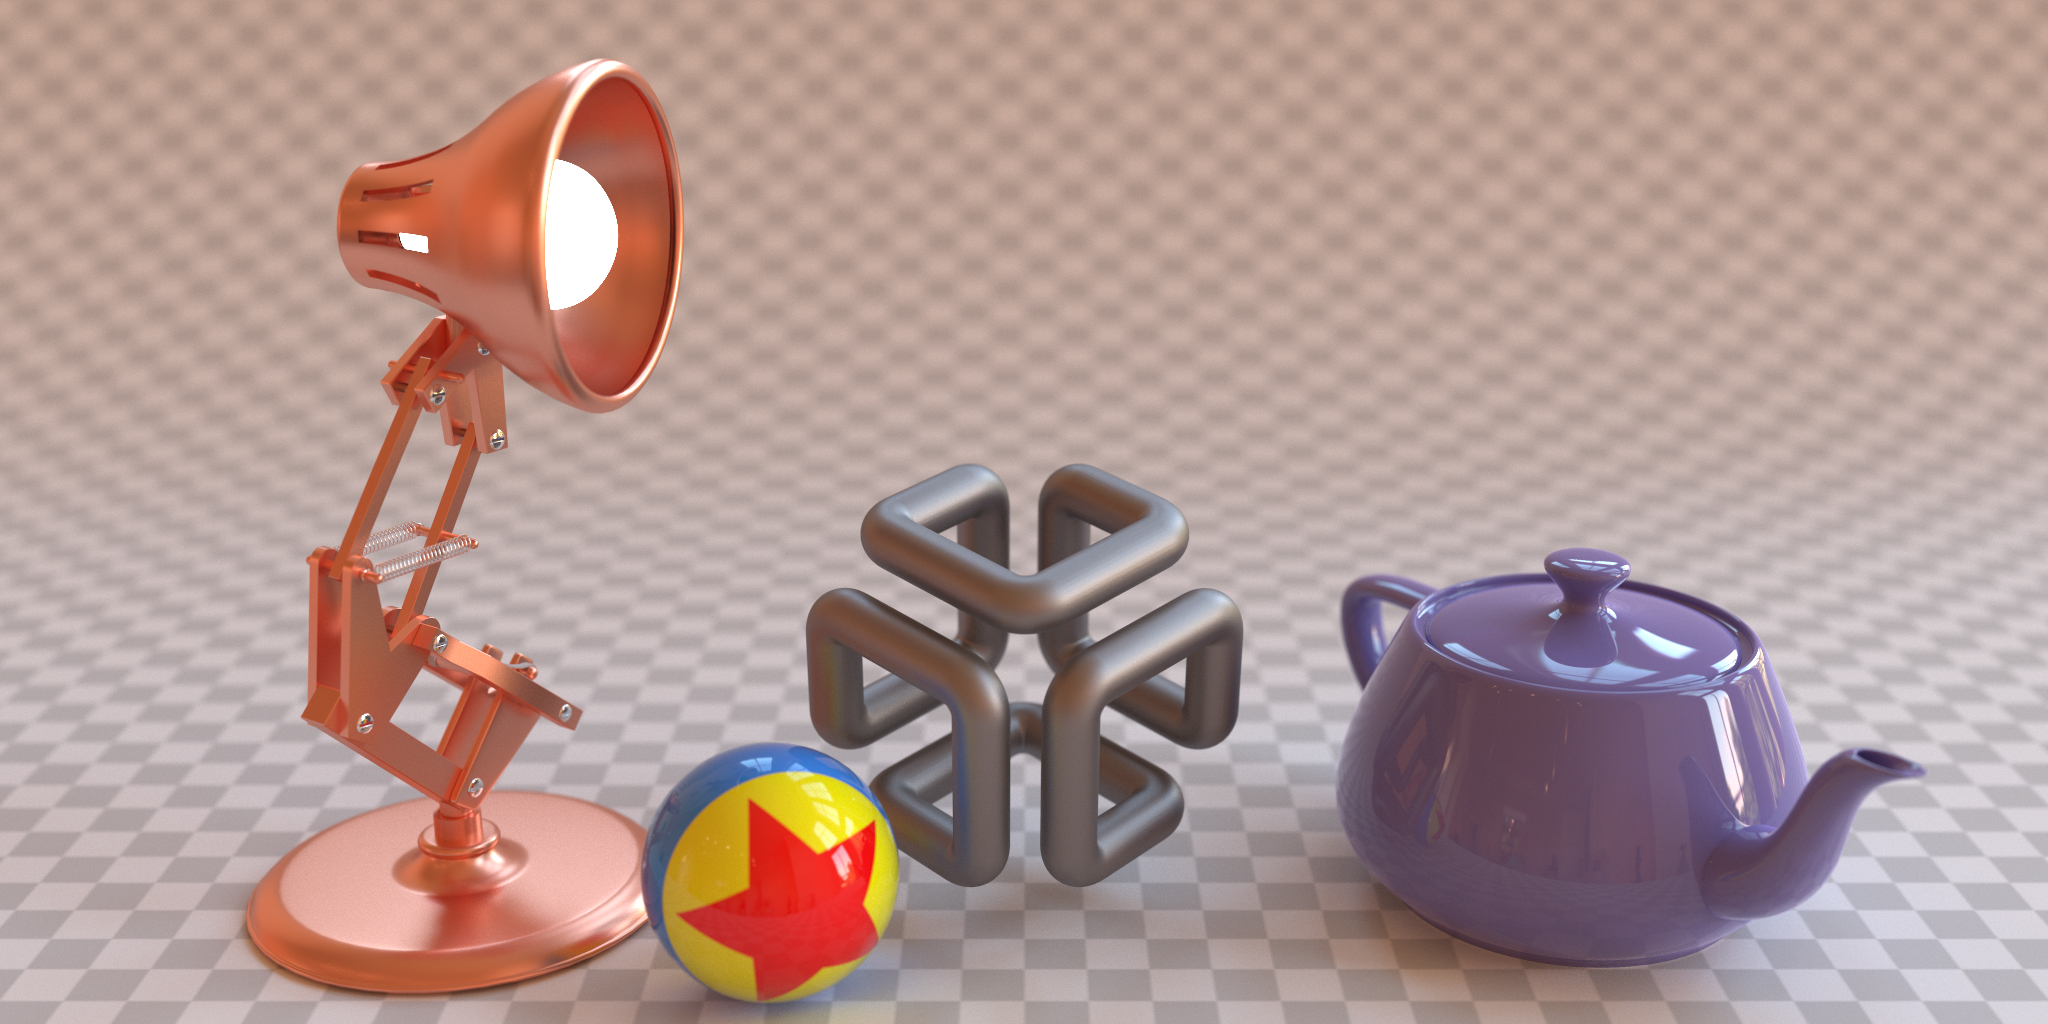
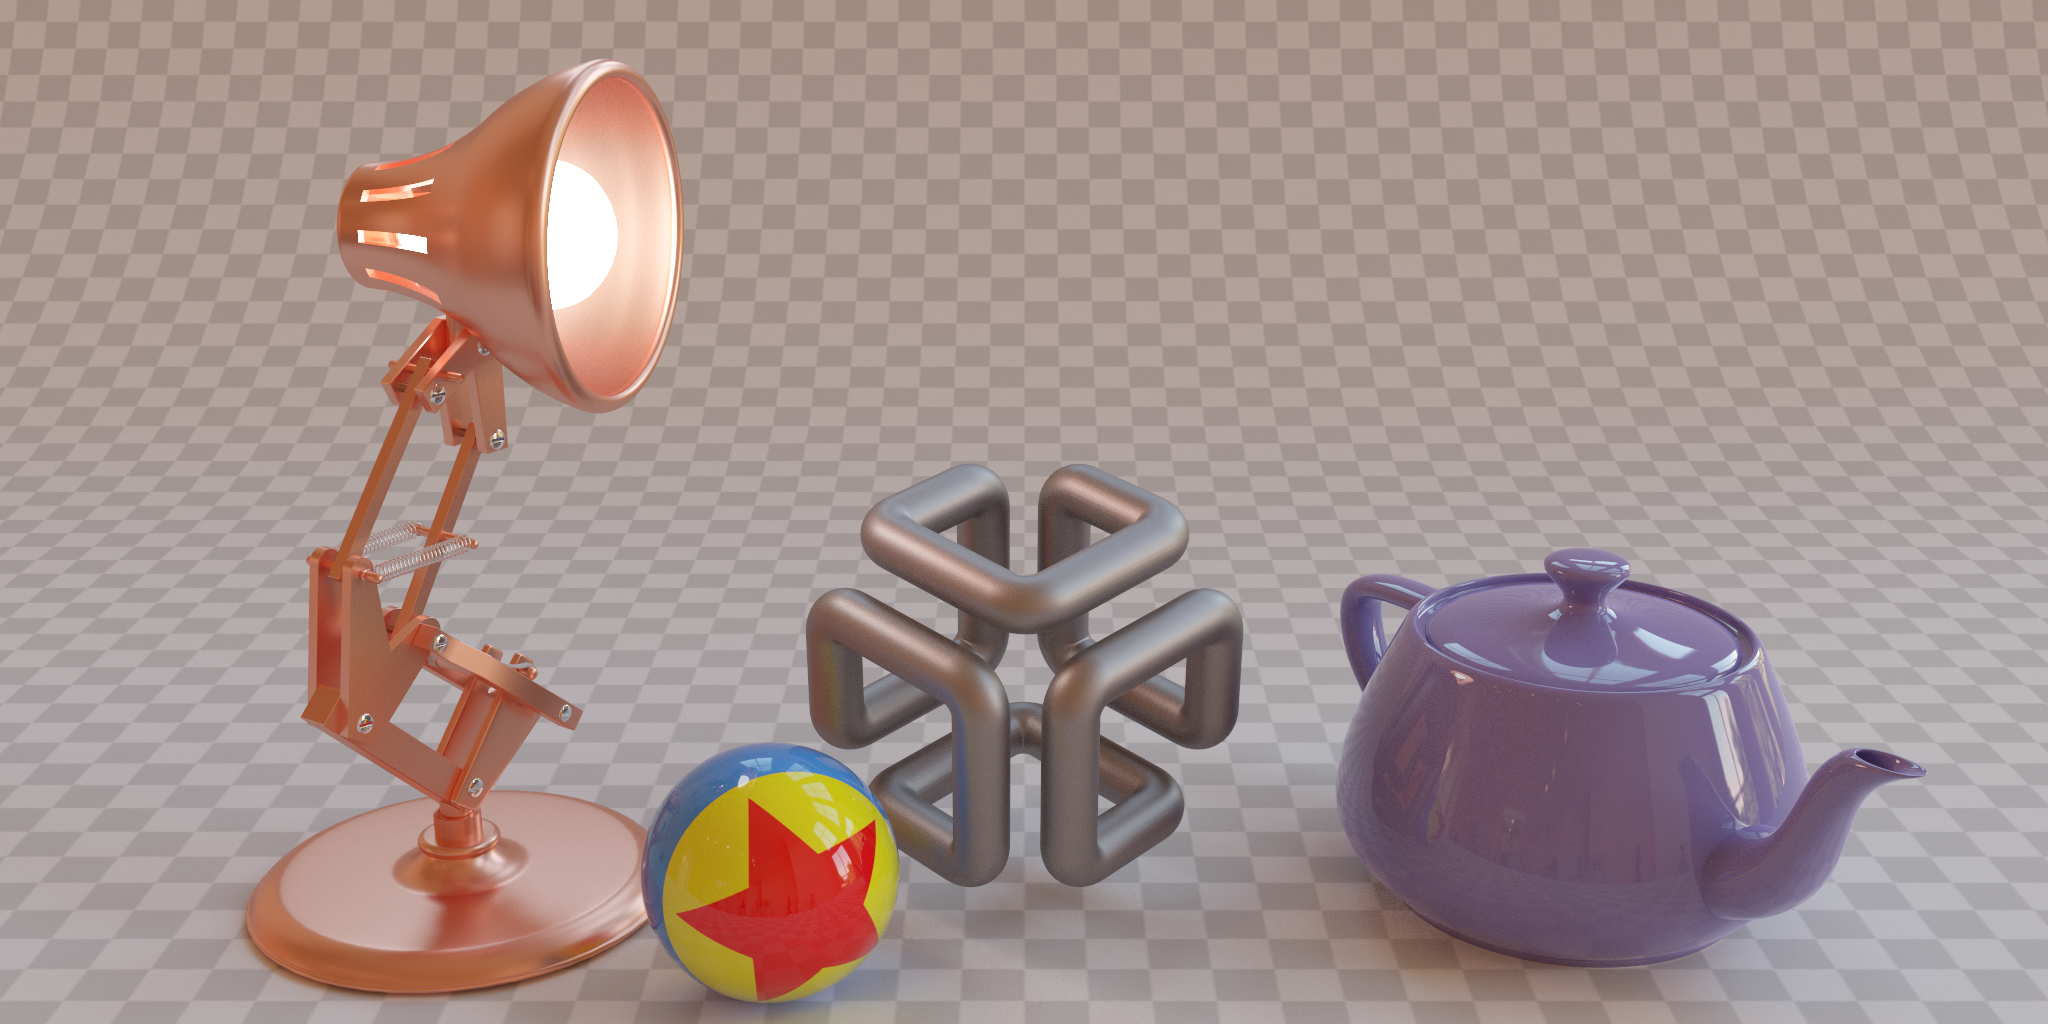
correction of geometry emitters

diff --git a/noor/header/options.h b/noor/header/options.h
@@ -48,12 +48,15 @@ const std::vector<std::string> hdr_files = {
     /*19*/std::string( texture_dir + "hdri/symmetrical_garden_4k.hdr" ),
     /*20*/std::string( texture_dir + "hdri/aft_lounge_4k.hdr" ),
     /*21*/std::string( texture_dir + "hdri/royal_esplanade_4k.hdr" ),
-    /*22*/std::string( texture_dir + "hdri/canada_montreal_loft_max_sunny.exr" ),
-    /*23*/std::string( texture_dir + "hdri/canada_montreal_nad_cafeteria_bright.exr" ),
-    /*24*/std::string( texture_dir + "hdri/canada_montreal_nad_photorealism.exr" ),
-    /*25*/std::string( texture_dir + "hdri/canada_montreal_pierre_bathroom.exr" ),
-    /*26*/std::string( texture_dir + "hdri/canada_montreal_pierre_kitchen.exr" ),
-    /*27*/std::string( texture_dir + "hdri/canada_montreal_thea.exr" ),
+    /*22*/std::string( texture_dir + "hdri/satara_night_8k.hdr" ),
+    /*23*/std::string( texture_dir + "hdri/umhlanga_sunrise_8k.hdr" ),
+    /*24*/std::string( texture_dir + "hdri/cayley_interior_8k.hdr" ),
+    /*25*/std::string( texture_dir + "hdri/canada_montreal_loft_max_sunny.exr" ),
+    /*26*/std::string( texture_dir + "hdri/canada_montreal_nad_cafeteria_bright.exr" ),
+    /*27*/std::string( texture_dir + "hdri/canada_montreal_nad_photorealism.exr" ),
+    /*28*/std::string( texture_dir + "hdri/canada_montreal_pierre_bathroom.exr" ),
+    /*29*/std::string( texture_dir + "hdri/canada_montreal_pierre_kitchen.exr" ),
+    /*30*/std::string( texture_dir + "hdri/canada_montreal_thea.exr" ),
 };
 
 
